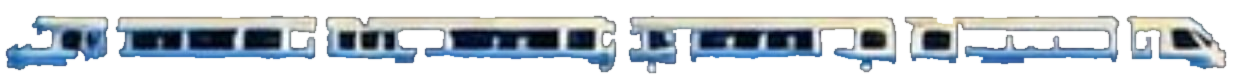
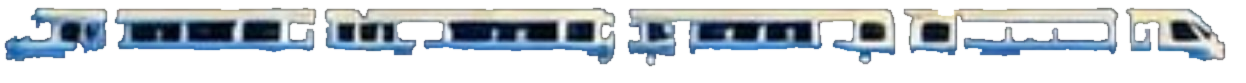
Bigger hero band, bold city names in the partner wall
- The skyline band is re-cropped higher so the DELHI label is whole, then
  scaled to 116% inside a wrapper so the cityscape and the metro read larger.
  The wrapper keeps the train locked to the artwork when the band scales.
- The leftover deck text at the top-left of the band (the 'POSSIBILITIES.'
  line, its rule, the pixel squares and a stray stroke) is inpainted out.
- City partners row now leads with the city: Delhi - Neo4j, Pune - Rezoomex,
  with the city name in bold next to a blue square.

diff --git a/index.html b/index.html
@@ -128,8 +128,10 @@
       </aside>
     </div>
     <div class="hero__skyline" aria-hidden="true">
-      <img src="assets/img/brand/skyline.jpg" width="4645" height="938" alt="" loading="eager">
-      <span class="hero__metro"><i></i></span>
+      <div class="hero__skyline-scale">
+        <img src="assets/img/brand/skyline.jpg" width="4644" height="1004" alt="" loading="eager">
+        <span class="hero__metro"><i></i></span>
+      </div>
     </div>
   </section>
 
@@ -387,8 +389,14 @@
         <div class="partner-tier">
           <span class="partner-tier__label">City partners</span>
           <div class="partner-tier__logos">
-            <span class="partner-logo partner-logo--neo4j" data-cursor="Partner"><img src="assets/img/partners/neo4j.svg" alt="Neo4j" loading="lazy" decoding="async"><small>Delhi</small></span>
-            <span class="partner-logo partner-logo--rezoomex" data-cursor="Partner"><img src="assets/img/partners/rezoomex.png" alt="Rezoomex" loading="lazy" decoding="async"><small>Pune</small></span>
+            <span class="partner-city">
+              <b>Delhi</b>
+              <span class="partner-logo partner-logo--neo4j" data-cursor="Partner"><img src="assets/img/partners/neo4j.svg" alt="Neo4j" loading="lazy" decoding="async"></span>
+            </span>
+            <span class="partner-city">
+              <b>Pune</b>
+              <span class="partner-logo partner-logo--rezoomex" data-cursor="Partner"><img src="assets/img/partners/rezoomex.png" alt="Rezoomex" loading="lazy" decoding="async"></span>
+            </span>
           </div>
         </div>
 

diff --git a/partners.html b/partners.html
@@ -122,8 +122,14 @@
         <div class="partner-tier">
           <span class="partner-tier__label">City partners</span>
           <div class="partner-tier__logos">
-            <span class="partner-logo partner-logo--neo4j" data-cursor="Partner"><img src="assets/img/partners/neo4j.svg" alt="Neo4j" loading="lazy" decoding="async"><small>Delhi</small></span>
-            <span class="partner-logo partner-logo--rezoomex" data-cursor="Partner"><img src="assets/img/partners/rezoomex.png" alt="Rezoomex" loading="lazy" decoding="async"><small>Pune</small></span>
+            <span class="partner-city">
+              <b>Delhi</b>
+              <span class="partner-logo partner-logo--neo4j" data-cursor="Partner"><img src="assets/img/partners/neo4j.svg" alt="Neo4j" loading="lazy" decoding="async"></span>
+            </span>
+            <span class="partner-city">
+              <b>Pune</b>
+              <span class="partner-logo partner-logo--rezoomex" data-cursor="Partner"><img src="assets/img/partners/rezoomex.png" alt="Rezoomex" loading="lazy" decoding="async"></span>
+            </span>
           </div>
         </div>
 

diff --git a/assets/css/campaign.css b/assets/css/campaign.css
@@ -1078,3 +1078,21 @@ html:not(.js) [data-reveal]{opacity:1;transform:none}
   .track__row span:last-child{text-align:left}
   .day-table__row{grid-template-columns:62px minmax(0,1fr);gap:12px}
 }
+
+/* --------------------------------------------------------------------------
+   City partners: the city name carries the row
+   -------------------------------------------------------------------------- */
+.partner-city{display:inline-flex;align-items:center;gap:14px}
+.partner-city b{
+  font-family:var(--display);font-size:1.02rem;font-weight:850;letter-spacing:-.02em;
+  line-height:1;color:var(--ink);position:relative;padding-left:16px;white-space:nowrap;
+}
+.partner-city b::before{
+  content:"";position:absolute;left:0;top:50%;transform:translateY(-50%);
+  width:8px;height:8px;background:var(--blue);
+}
+.partner-city .partner-logo{padding-left:16px;border-left:1px solid var(--line)}
+.partner-logo small{
+  font-family:var(--mono);font-size:9px;font-weight:700;letter-spacing:.12em;
+  text-transform:uppercase;color:var(--ink);
+}

diff --git a/assets/css/motion.css b/assets/css/motion.css
@@ -316,14 +316,18 @@ html:not(.js) .intro{display:none}
    skyline band itself, so there is only ever one train on the viaduct.
    -------------------------------------------------------------------------- */
 .hero__skyline{position:relative;overflow:hidden}
+/* The band is scaled up so the cityscape and the metro read larger.
+   The wrapper keeps the sprite locked to the artwork when it scales. */
+.hero__skyline-scale{position:relative;width:116%;margin-left:-8%}
+.hero__skyline-scale img{display:block;width:100%;height:auto}
 .hero__metro{
-  position:absolute;left:0;top:59.1%;
+  position:absolute;left:0;top:61.8%;
   width:26.83%;
   animation:metro-run 32s linear infinite;
   will-change:transform;
 }
 .hero__metro i{
-  display:block;width:100%;aspect-ratio:1246 / 84;
+  display:block;width:100%;aspect-ratio:1246 / 83;
   background:url("../img/brand/metro.png") no-repeat center / 100% 100%;
   animation:metro-bob 1.7s ease-in-out infinite alternate;
   filter:drop-shadow(0 4px 3px rgba(11,11,11,.45));

diff --git a/README.md b/README.md
@@ -75,7 +75,7 @@ labelled **DevRel Squad** as supplied.
 assets/img/brand/reality-check-title.png   pixel title cropped from the Delhi poster
 assets/img/brand/noclue-black.png          trimmed noClue wordmark
 assets/img/brand/noclue-white.png          trimmed white noClue wordmark
-assets/img/brand/skyline.jpg               city skyline strip from the deck (train removed)
+assets/img/brand/skyline.jpg               city skyline strip from the deck (train lifted out)
 assets/img/brand/metro.png                 the deck's metro train, lifted out as a sprite
 assets/img/og.jpg                          1200×630 social card
 favicon.svg                                 cream/blue pixel favicon
